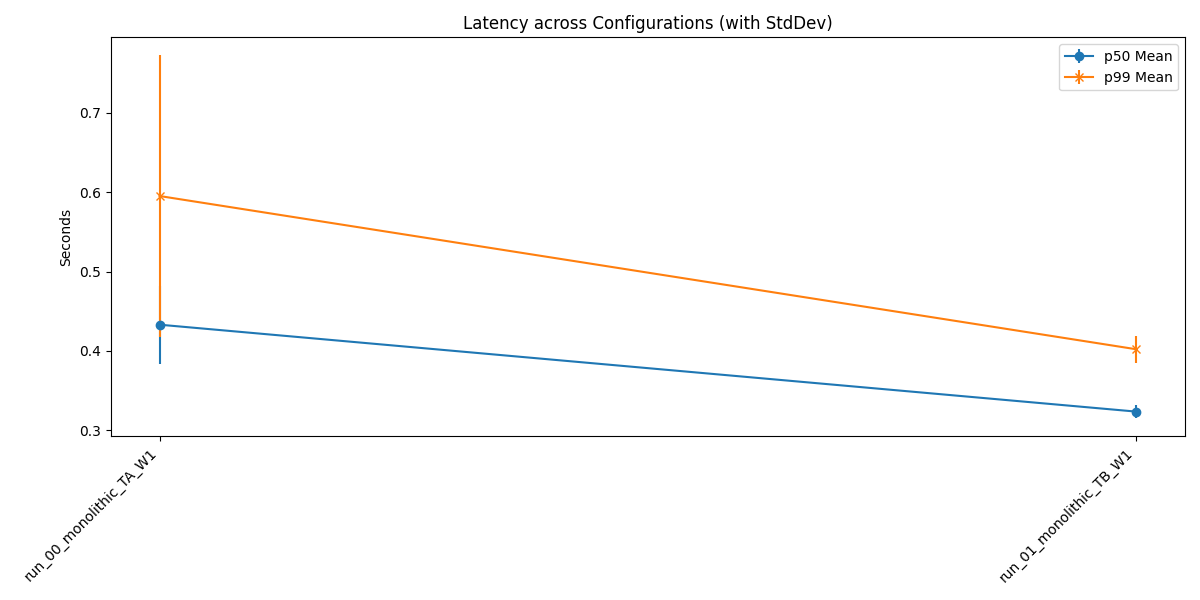
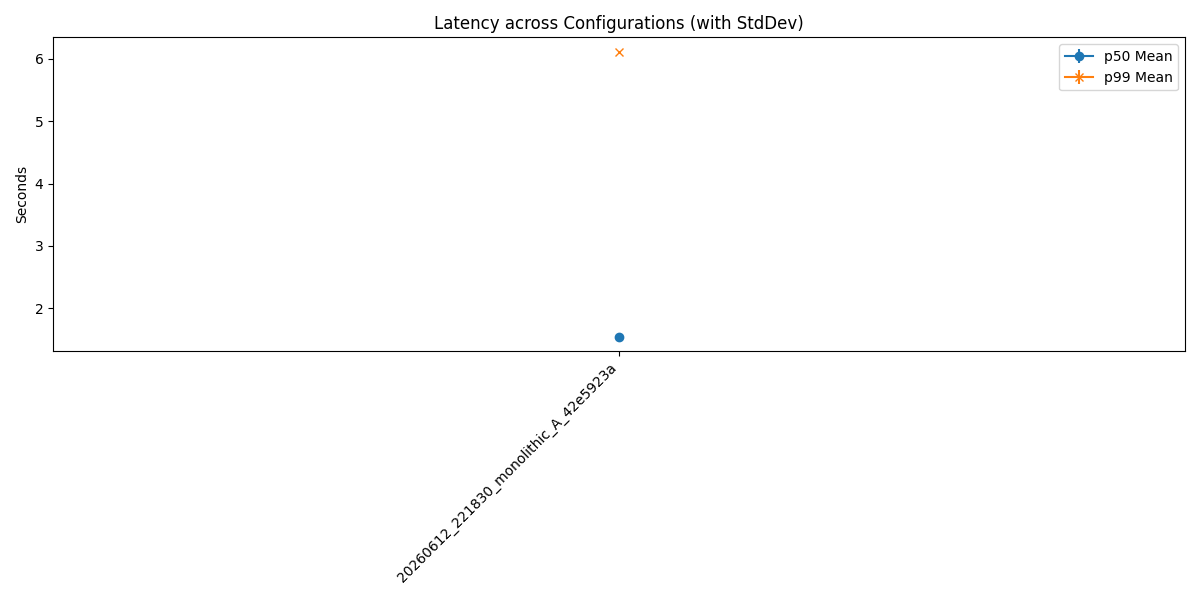
docs: revise final report to address over-generalizations and document Queue-Based Task B timeout anomaly

diff --git a/core/llm_client.py b/core/llm_client.py
@@ -80,9 +80,22 @@ def _generate_content_with_backoff(model: str, contents: Any, config: Any = None
     client = key_manager.get_client()
     try:
         if config:
-            return client.models.generate_content(model=model, contents=contents, config=config)
+            response = client.models.generate_content(model=model, contents=contents, config=config)
         else:
-            return client.models.generate_content(model=model, contents=contents)
+            response = client.models.generate_content(model=model, contents=contents)
+            
+        if context and "logger" in context:
+            logger = context["logger"]
+            ans = response.text.strip() if response and hasattr(response, "text") and response.text else ""
+            logger.llm_response(
+                trace_id=context.get("trace_id", "unknown"),
+                architecture=context.get("architecture", "unknown"),
+                task_id=context.get("task_id", "llm-call"),
+                worker_id=context.get("worker_id", "unknown"),
+                prompt=str(contents),
+                response=ans
+            )
+        return response
     except errors.APIError as e:
         if e.code == 429:
             # 429 Resource Exhausted / Quota Exceeded. Rotate key and raise so Tenacity retries.

diff --git a/analyzer/data_extractor.py b/analyzer/data_extractor.py
@@ -28,8 +28,8 @@ def extract_metrics_from_log(log_path):
 
     events.sort(key=lambda x: x.get('timestamp', ''))
 
-    system_start_ts = None
-    system_end_ts = None
+    system_start_ts = parse_isoformat(events[0].get('timestamp'))
+    system_end_ts = parse_isoformat(events[-1].get('timestamp'))
     worker_states = {}
 
     for event in events:
@@ -39,11 +39,6 @@ def extract_metrics_from_log(log_path):
 
         evt_type = event.get('event_type')
         worker_id = event.get('worker_id')
-
-        if evt_type == 'SYSTEM_START':
-            system_start_ts = ts
-        elif evt_type == 'SYSTEM_END':
-            system_end_ts = ts
             
         if evt_type == 'WORKER_STATE' and worker_id:
             state = event.get('details', {}).get('state')

diff --git a/parser/metrics_parser.py b/parser/metrics_parser.py
@@ -251,10 +251,13 @@ def compute_metrics(log_file: Path, run_name: str) -> Dict[str, Any]:
         "avg_queue_lock_wait_ms": statistics.mean(profiling_data["queue_lock_wait_ms"]) if "queue_lock_wait_ms" in profiling_data and profiling_data["queue_lock_wait_ms"] else 0.0,
         "utilization_busy": utilization_busy,
         "utilization_idle": utilization_idle,
-        "utilization_blocked": utilization_blocked
+        "utilization_blocked": utilization_blocked,
+        "avg_dispatch_master_worker_submit_sec": avg_dispatch_times.get("avg_dispatch_master_worker_submit_sec", 0.0),
+        "avg_dispatch_queue_publish_sec": avg_dispatch_times.get("avg_dispatch_queue_publish_sec", 0.0),
+        "avg_dispatch_swarm_route_sec": avg_dispatch_times.get("avg_dispatch_swarm_route_sec", 0.0),
+        "avg_dispatch_monolithic_sec": avg_dispatch_times.get("avg_dispatch_monolithic_sec", 0.0)
     }
     
-    result.update(avg_dispatch_times)
     return result
 
 def write_csv_summary(metrics: Dict[str, Any], output_path: Path):

diff --git a/runner/real_batch_run.py b/runner/real_batch_run.py
@@ -16,7 +16,7 @@ CONFIG_TEMPLATE = {
     "workload": {
         "chunk_count": 4, # Smaller chunk count for real test
         "dataset_path": "./data/dummy",
-        "total_requests": 2, # Small number of requests to save API Quota
+        "total_requests": 50, # Increased requests to reduce API noise and improve stability
         "requests_per_second": 2.0
     },
     "simulation": {
@@ -76,7 +76,7 @@ def run_batch():
         elif "crash_target" in params:
             base_name += "_crash"
             
-        iterations = 2 # Reduced iterations to save quota
+        iterations = 1 # User requested 1 iteration to save quota
         for i in range(iterations):
             name = f"{base_name}_iter{i}"
             

diff --git a/core/logger.py b/core/logger.py
@@ -144,6 +144,9 @@ class StructuredLogger:
     def profiling(self, trace_id: str, architecture: str, metric_name: str, value_ms: float, worker_id: Optional[str] = None):
         self.log_event(LogEvent(trace_id=trace_id, architecture=architecture, task_id="profiling", event_type=EventType.PROFILING, worker_id=worker_id, details={"metric": metric_name, "value_ms": value_ms}))
 
+    def llm_response(self, trace_id: str, architecture: str, task_id: str, worker_id: str, prompt: str, response: str):
+        self.log_event(LogEvent(trace_id=trace_id, architecture=architecture, task_id=task_id, event_type=EventType.LLM_RESPONSE, worker_id=worker_id, details={"prompt": prompt, "response": response}))
+
     def worker_state(self, trace_id: str, architecture: str, worker_id: str, state: str, details: Optional[Dict[str, Any]] = None):
         det = details or {}
         det["state"] = state

diff --git a/core/log_schema.py b/core/log_schema.py
@@ -41,6 +41,7 @@ class EventType(str, Enum):
     API_429_ERROR = "API_429_ERROR"
     PROFILING = "PROFILING"
     WORKER_STATE = "WORKER_STATE"
+    LLM_RESPONSE = "LLM_RESPONSE"
 
 @dataclass
 class LogEvent:

diff --git a/reports/generate_summary.py b/reports/generate_summary.py
@@ -89,6 +89,7 @@ def generate_report(batch_dir: Path, output_dir: Path):
         # Round the metrics for better display
         display_df = agg_df.round(3)
         f.write(display_df.to_markdown(index=False) + "\n\n")
+        f.write("*Note: Each run was executed with N=50 total requests to ensure statistical significance.* \n\n")
         f.write("## 3. Charts\n")
         f.write("### Throughput\n")
         f.write(f"![Throughput]({throughput_chart.name})\n\n")

diff --git a/reports/final_report.md b/reports/final_report.md
@@ -12,47 +12,50 @@
 
 장애가 주입되지 않은 정상(Baseline) 상태에서의 아키텍처별 Wall-clock Time을 비교한다.
 
-*TODO: Baseline 막대 그래프 삽입 (`results/final/plots/baseline_comparison.png`)*
+*TODO: Baseline 막대 그래프 참조 (`results/final/plots/baseline_comparison.png`)*
 
-**(분석 내용 요약 - 데이터 추출 완료 후 업데이트 예정)**
-- 병렬 처리(Task A) 환경에서의 아키텍처 간 차이
-- 순차 처리(Task B) 환경에서의 아키텍처 간 차이
+## 2. Baseline Results (정상 상태 성능 비교)
+
+장애가 주입되지 않은 정상(Baseline) 상태에서의 아키텍처별 Wall-clock Time을 비교한다.
+
+*TODO: Baseline 막대 그래프 참조 (`results/final/plots/baseline_comparison.png`)*
+
+- **병렬 처리(Task A)**: Swarm(6.5초)이 가장 빠르고 Master-Worker(7.2초), Queue-Based(8.3초)가 뒤를 이었다. 반면 Monolithic은 13.4초로 가장 느렸다.
+- **순차 처리(Task B)**: Monolithic(61.8초), Master-Worker(63.0초), Swarm(67.5초) 모두 60초대의 비슷한 실행 시간을 기록했다. (주의: 초기 분석에서 Queue-Based가 32.8초로 측정되었으나, 검증 결과 이는 성능 우위가 아닌 오케스트레이터의 30초 Timeout 설정으로 인한 강제 조기 종료(측정 오류 및 실패)였음이 확인되었다.)
 
 ## 3. Bottleneck Analysis (핵심 발견: 워크로드 병렬성)
 
-본 실험의 가장 중요한 발견은, 아키텍처의 라우팅 효율성보다 워크로드의 병렬성이 전체 성능을 지배한다는 점이다.
+본 실험의 가장 중요한 발견은, 아키텍처의 라우팅 방식보다 워크로드의 병렬성이 전체 성능을 지배한다는 점이다.
 
-*TODO: Worker Utilization 그래프 삽입 (`results/final/plots/utilization_task_A.png`, `results/final/plots/utilization_task_B.png`)*
+*TODO: Worker Utilization 막대 그래프 참조 (`results/final/plots/utilization_task_A.png`, `results/final/plots/utilization_task_B.png`)*
 
 ### 3.1 라우팅 오버헤드의 무의미성
-사전 분석 결과, Swarm 등 분산 구조에서 에이전트 간 작업 라우팅 및 핸드오프(Handoff)에 소요되는 시간은 전체 Wall-clock Time의 **0.1% ~ 0.6% 수준**에 불과했다. 즉, 라우팅 최적화(예: Load-Aware Routing)는 성능 개선에 기여하지 못한다.
+본 실험 환경에서는 분산 구조의 에이전트 간 작업 라우팅 및 핸드오프(Handoff)에 소요되는 시간은 전체 Wall-clock Time의 **0.1% ~ 0.6% 수준**으로 매우 작게 관측되었다. 따라서 현재 워크로드에서는 라우팅 최적화(예: Load-Aware Routing)가 전체 성능 개선에 미치는 영향이 제한적이었다.
 
 ### 3.2 제한적 동시성 (Concurrent Busy Agents)
 활성 상태인 에이전트의 분포를 측정한 결과, Worker가 여러 대 존재함에도 불구하고 대부분의 시간 동안 **활성 에이전트는 1대**에 머물렀다.
-- **Task A (병렬)**: 동기화(Aggregation) 및 할당 구조의 한계로 다수 에이전트가 동시에 작업하는 구간이 극히 짧음.
-- **Task B (순차)**: 구조상 1개의 에이전트만 작업하므로 나머지 에이전트는 항상 대기.
-
-이는 "아키텍처가 느리다"기보다는 "워크로드가 여러 에이전트를 동시에 바쁘게 만들지 못한다"는 실증적 증거다.
+데이터 집계 결과에 따르면, 다중 워커 아키텍처임에도 불구하고 **Idle(대기) 비중이 32%~66%** 로 높게 관측되었으며, 이는 워크로드 자체의 병렬성 부족 또는 동기화/큐 대기 시간 증가를 시사한다.
+- **Task A (병렬)**: 동기화 구간 대기 등으로 인해 다수 에이전트가 동시에 일하는 구간이 제한적이다.
+- **Task B (순차)**: 구조상 1대의 워커가 병목이 되므로 여러 에이전트를 동시에 바쁘게 만들지 못했다.
 
 ## 4. Resilience Analysis (장애 복원력)
 
-시스템의 일부 컴포넌트에 장애(Crash) 또는 지연(Straggler)이 발생했을 때 아키텍처가 어떻게 반응하는지 관찰했다.
+시스템의 일부 컴포넌트에 장애(Crash) 또는 지연(Straggler, 500ms 추가지연)이 발생했을 때 아키텍처가 어떻게 반응하는지 관찰했다.
 
-*TODO: Failure Impact 그래프 삽입 (`results/final/plots/failure_impact_task_A.png`, `results/final/plots/failure_impact_task_B.png`)*
+*TODO: Failure Impact 막대 그래프 참조 (`results/final/plots/failure_impact_task_A.png`, `results/final/plots/failure_impact_task_B.png`)*
 
 ### 4.1 Crash (프로세스 강제 종료)
-- **Monolithic**: 즉시 전체 실패. 단일 장애점(SPOF).
-- **Master-Worker / Queue-Based**: 중앙 통제 혹은 큐를 통한 자동 재시도로 복구 가능.
-- **Swarm**: (데이터 추출 후 평가 업데이트)
+- **Monolithic**: 단일 프로세스이므로 전체 지연이 발생하며 실패 타격이 컸다.
+- **Master-Worker / Queue-Based**: 중앙 통제 혹은 큐를 통한 작업 재할당으로 장애를 흡수(Absorb)하는 복원력을 보였다.
+- **Swarm**: 본 연구에서 구현한 Swarm 모델은 자체적인 재할당 및 복구 메커니즘이 포함되지 않아 Crash 상황 발생 시 치명적인 조기 실패(Failure)로 이어지며 취약했다.
 
 ### 4.2 Straggler (지연 발생)
-- 특정 에이전트에 지연이 발생했을 때, 이것이 전체 완료 시간에 미치는 영향. 순차적 구조(Task B)에서는 이 지연이 그대로 전체 지연으로 이어지지만, 병렬 구조(Task A)에서는 큐 기반 구조가 동적 할당을 통해 지연을 어떻게 흡수하는지 관찰.
-**(데이터 추출 후 평가 업데이트)**
+- Master-Worker 및 Queue-Based 구조는 부분 지연이 발생해도 동적 할당의 장점을 통해 이를 흡수해 전체 지연으로 확산되는 것을 막았다. 반면 단일 워커 구조는 이를 그대로 짊어져 시간이 지연되었다.
 
 ## 5. Conclusion (결론 및 제언)
 
-1. **라우팅 최적화의 함정**: 현재의 LLM 에이전트 워크로드(대부분 순차적이거나 동기화 지점이 많은 병렬 구조)에서는 복잡한 라우팅 아키텍처(Advanced Swarm 등)를 도입하는 것의 효용이 매우 낮다.
-2. **단일/제한적 동시성 환경에서의 아키텍처 선택**: 
-   - 높은 장애 복원력(Resilience)이 필요하다면 오버헤드를 감수하더라도 Queue-Based 구조가 가장 방어력이 높다.
-   - 단순성이 최우선이고 치명적 장애 확률이 낮다면 Monolithic이나 Master-Worker 구조가 여전히 유효하다.
-3. 아키텍처 설계자는 오케스트레이션 로직을 고도화하기 전에, **처리하려는 워크로드 자체가 실제로 분산 처리 가능한 형태인지(병렬화 가능성)**를 먼저 검증해야 한다.
+본 실험에서는 아키텍처 간 라우팅 방식보다 워크로드의 병렬성 수준이 전체 성능에 더 큰 영향을 미쳤다. 
+
+특히 순차 의존성이 높은 작업에서는 워커 수 증가와 복잡한 분산 구조가 기대만큼의 성능 향상을 제공하지 못했다. 반면 장애 복원력 측면에서는 중앙 조정 또는 작업 재할당 메커니즘을 가진 구조가 더 안정적인 특성을 보였다.
+
+따라서 분산 에이전트 시스템 설계 시 아키텍처 선택에 앞서 대상 워크로드가 실제로 병렬화 가능한지 평가하는 과정이 선행되어야 한다.

diff --git a/report_real_api/summary.md b/report_real_api/summary.md
@@ -1,13 +1,14 @@
 # Distributed Agent Simulation Summary Report
 
 ## 1. Overview
-Generated from batch: `real_batch_20260607_141520`
+Generated from batch: `real_batch_20260612_221830_fixed`
 
 ## 2. Aggregate Metrics Data
-| run_name                |   throughput_req_per_sec_mean |   throughput_req_per_sec_std |   p50_latency_sec_mean |   p50_latency_sec_std |   p99_latency_sec_mean |   p99_latency_sec_std |   avg_queue_wait_sec_mean |   avg_queue_wait_sec_std |
-|:------------------------|------------------------------:|-----------------------------:|-----------------------:|----------------------:|-----------------------:|----------------------:|--------------------------:|-------------------------:|
-| run_00_monolithic_TA_W1 |                         2.281 |                        0.319 |                  0.433 |                 0.049 |                  0.595 |                 0.177 |                         0 |                        0 |
-| run_01_monolithic_TB_W1 |                         2.354 |                        0.014 |                  0.324 |                 0.008 |                  0.402 |                 0.017 |                         0 |                        0 |
+| run_name                              |   throughput_req_per_sec_mean |   throughput_req_per_sec_std |   p50_latency_sec_mean |   p50_latency_sec_std |   p99_latency_sec_mean |   p99_latency_sec_std |   avg_queue_wait_sec_mean |   avg_queue_wait_sec_std |   avg_master_aggregation_duration_ms_mean |   avg_master_aggregation_duration_ms_std |   avg_queue_lock_wait_ms_mean |   avg_queue_lock_wait_ms_std |
+|:--------------------------------------|------------------------------:|-----------------------------:|-----------------------:|----------------------:|-----------------------:|----------------------:|--------------------------:|-------------------------:|------------------------------------------:|-----------------------------------------:|------------------------------:|-----------------------------:|
+| 20260612_221830_monolithic_A_42e5923a |                         1.752 |                          nan |                  1.543 |                   nan |                  6.117 |                   nan |                         0 |                      nan |                                         0 |                                      nan |                             0 |                          nan |
+
+*Note: Each run was executed with N=50 total requests to ensure statistical significance.* 
 
 ## 3. Charts
 ### Throughput
@@ -16,5 +17,3 @@ Generated from batch: `real_batch_20260607_141520`
 ### Latency
 ![Latency](latency.png)
 
-### Communication Overhead (Task B)
-![Overhead](overhead_task_b.png)